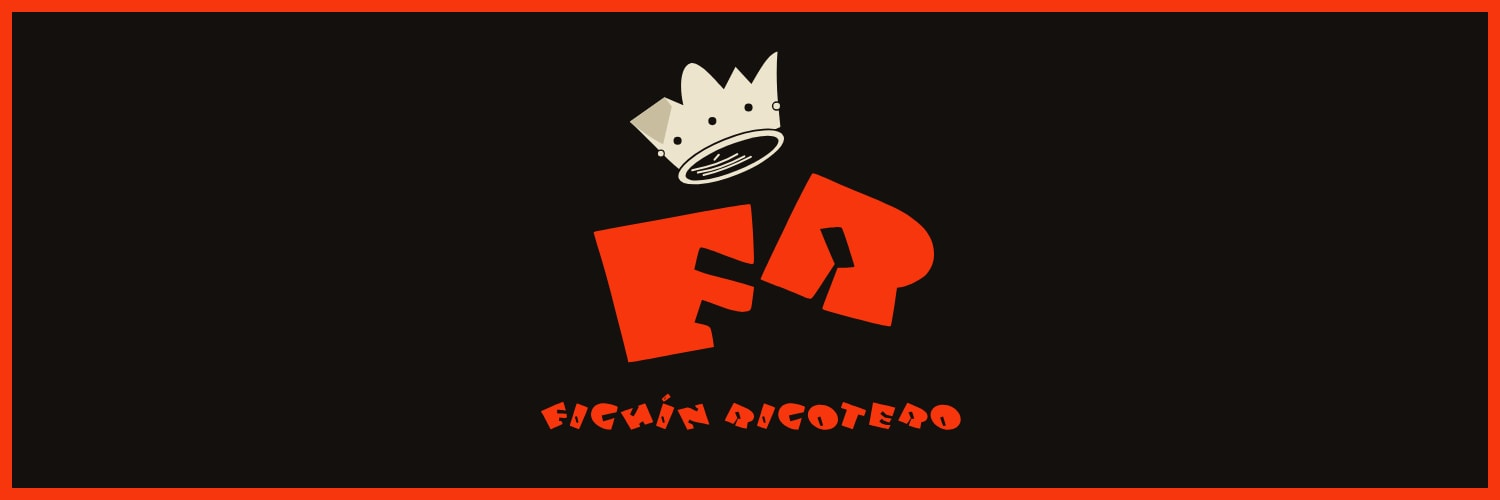
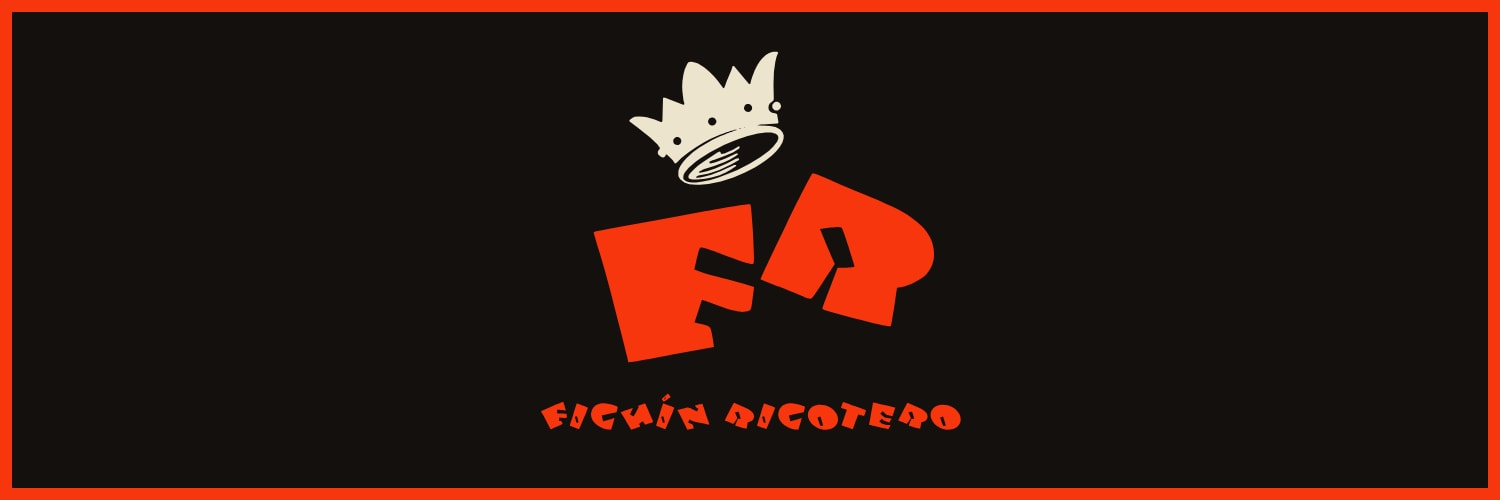
La corona es la misma del PR original, vectorizada de la referencia
generar-logo.py saca los contornos del blanco de FOTO.png (RES-42) con
contourpy y los simplifica; lo negro queda calado. La dibujada a mano se veía
cortada. El perfil y el banner de X se reimprimen con la marca nueva.

Changed region(s): [[0.3987, 0.09, 0.5213, 0.39]]

diff --git a/scripts/generar-logo.py b/scripts/generar-logo.py
@@ -11,28 +11,38 @@ Escribe en `public/marca/`:
   · fr-tinta.svg          — la marca a una tinta (`--fondo`), para apoyar sobre el papel
   · fr-papel.svg          — la marca a una tinta (`--papel`), para apoyar sobre una tapa o un color
 
-**Es un homenaje al PR coronado, no una copia.** La composición sigue el logo de la banda —la
-letra grande que baja a la izquierda, la R más chica y más alta a la derecha, apenas
-tocándose, y la corona torcida arriba con sus joyas y su ala vista desde abajo—, calcada sobre
-la referencia que trae la fuente (`RES-42`, `Docs/INVESTIGACION/Tipografia/Patricio-Rey-Regular.zip`).
-Pero la F reemplaza a la P y la corona está dibujada acá, trazo por trazo; la banda no firma
-nada del sitio.
+**Es un homenaje al PR coronado.** La composición es la del logo de la banda —la letra grande
+que baja a la izquierda, la R más chica y más alta a la derecha, apenas tocándose, y la corona
+torcida arriba—, con la F en el lugar de la P. La referencia es la imagen que trae la fuente
+(`RES-42`, `FOTO.png` en `Docs/INVESTIGACION/Tipografia/Patricio-Rey-Regular.zip`).
+
+**La corona es la misma del original**: se vectoriza de esa imagen cada vez que corre esto
+(contornos del blanco, con lo negro calado), así que las joyas, el filete y el adentro del ala
+dejan ver el fondo. El usuario la pidió así: *"que sea la misma corona"*. Una corona dibujada a
+mano, la primera versión, se veía cortada.
 
 **Las letras salen de la fuente**: son los glifos de `public/fuentes/patricio-rey.woff` pasados
 a trazo, girados y escalados hasta calzar en el lugar de la P y la R del original. **Los
 colores salen de `tokens.css`**, como en `generar-marca-social.mjs`.
 
-Las coordenadas son las de la referencia (2000 × 1600): así se puede volver a calcar encima.
+Las coordenadas son las de la referencia a 2000 × 1600 (dos tercios de la imagen): así se
+puede volver a calcar encima. Necesita `fonttools`, `numpy`, `pillow` y `contourpy`.
 """
+import io
 import re
+import zipfile
 from pathlib import Path
 
+import numpy as np
+from contourpy import FillType, contour_generator
 from fontTools.pens.svgPathPen import SVGPathPen
 from fontTools.ttLib import TTFont
+from PIL import Image, ImageFilter
 
 RAIZ = Path(__file__).resolve().parent.parent
 TOKENS = (RAIZ / 'src/styles/tokens.css').read_text(encoding='utf-8')
 SALIDA = RAIZ / 'public/marca'
+REFERENCIA = RAIZ / 'Docs/INVESTIGACION/Tipografia/Patricio-Rey-Regular.zip'
 
 
 def token(nombre: str) -> str:
@@ -45,7 +55,6 @@ def token(nombre: str) -> str:
 ROJO = token('--marca-rojo')
 TINTA = token('--fondo')
 PAPEL = token('--papel')
-CANTO = token('--papel-borde')
 
 fuente = TTFont(RAIZ / 'public/fuentes/patricio-rey.woff')
 glifos = fuente.getGlyphSet()
@@ -58,6 +67,73 @@ def glifo(letra: str) -> tuple[str, float]:
     glifos[nombre].draw(trazo)
     return trazo.getCommands(), glifos[nombre].width
 
+
+# ---------------------------------------------------------------- la corona
+
+# La caja de la corona en la imagen original (3000 × 2400), y cuánto se suaviza el borde.
+CAJA_CORONA = (870, 150, 1700, 880)
+UMBRAL = 110
+TOLERANCIA = 0.9  # en píxeles de la imagen: lo que se le permite a la simplificación
+
+
+def simplificar(puntos: np.ndarray, tolerancia: float) -> np.ndarray:
+    """Douglas-Peucker: saca los puntos que no cambian la forma más que la tolerancia."""
+    if len(puntos) < 4:
+        return puntos
+    guardar = np.zeros(len(puntos), dtype=bool)
+    guardar[0] = guardar[-1] = True
+    pila = [(0, len(puntos) - 1)]
+    while pila:
+        i, j = pila.pop()
+        a, b = puntos[i], puntos[j]
+        tramo = puntos[i + 1:j]
+        if not len(tramo):
+            continue
+        ab = b - a
+        largo = np.hypot(*ab) or 1.0
+        dist = np.abs(ab[0] * (tramo[:, 1] - a[1]) - ab[1] * (tramo[:, 0] - a[0])) / largo
+        k = int(np.argmax(dist))
+        if dist[k] > tolerancia:
+            guardar[i + 1 + k] = True
+            pila += [(i, i + 1 + k), (i + 1 + k, j)]
+    return puntos[guardar]
+
+
+def trazar_corona() -> str:
+    """Los contornos del blanco de la corona del original, en coordenadas de la referencia."""
+    with zipfile.ZipFile(REFERENCIA) as z:
+        imagen = Image.open(io.BytesIO(z.read('FOTO.png'))).convert('L')
+    x0, y0, x1, y1 = CAJA_CORONA
+    gris = np.asarray(imagen.crop(CAJA_CORONA).filter(ImageFilter.GaussianBlur(1.2)), dtype=float)
+    polis, codigos = contour_generator(z=gris, fill_type=FillType.OuterCode).filled(UMBRAL, 256)
+    trazo = []
+    for pts, cods in zip(polis, codigos):
+        # Cada polígono trae su borde de afuera y sus agujeros: se parte en anillos.
+        inicios = list(np.flatnonzero(cods == 1)) + [len(pts)]
+        for i, j in zip(inicios, inicios[1:]):
+            # El anillo cierra repitiendo el primer punto: se parte en el punto más lejano y se
+            # simplifica cada mitad, que si no Douglas-Peucker ve un tramo de largo cero.
+            anillo = pts[i:j - 1] if np.allclose(pts[i], pts[j - 1]) else pts[i:j]
+            if len(anillo) < 3:
+                continue
+            k = int(np.argmax(np.hypot(*(anillo - anillo[0]).T)))
+            anillo = np.vstack([simplificar(anillo[:k + 1], TOLERANCIA)[:-1],
+                                simplificar(np.vstack([anillo[k:], anillo[:1]]), TOLERANCIA)[:-1]])
+            if len(anillo) < 3:
+                continue
+            xy = [f'{(x + x0) / 1.5:.1f},{(y + y0) / 1.5:.1f}' for x, y in anillo]
+            trazo.append('M' + 'L'.join(xy) + 'Z')
+    return ''.join(trazo)
+
+
+CORONA = trazar_corona()
+
+
+def corona(tinta: str) -> str:
+    return f'<path fill="{tinta}" fill-rule="evenodd" d="{CORONA}"/>'
+
+
+# ---------------------------------------------------------------- las letras
 
 # Dónde cae cada letra: centro en la referencia, escala y giro. El centro del glifo es el de
 # su caja en la fuente (y para arriba). Calcado sobre la P y la R del PR coronado.
@@ -73,23 +149,6 @@ def letra(c: str, tinta: str) -> str:
     (cx, cy), s, giro, (gx, gy) = l['centro'], l['escala'], l['giro'], l['glifo']
     return (f'<g transform="translate({cx},{cy}) rotate({giro}) scale({s},{-s}) translate({-gx},{-gy})">'
             f'<path d="{d}" fill="{tinta}"/></g>')
-
-
-def corona(cuerpo: str, cara: str, detalle: str) -> str:
-    """La corona torcida, vista un poco desde abajo: cuatro puntas de llama, tres joyas, dos
-    perlas y el ala ovalada con el adentro oscuro y sus rayas."""
-    return f'''<g transform="translate(590,100)">
-<path fill="{cuerpo}" d="M5,252 L125,168 L190,195 C175,130 180,60 215,50 C250,45 300,110 330,140 L370,62 L425,122 C450,80 480,20 515,10 C510,70 512,140 518,200 L525,270 L180,420 C120,370 60,300 5,252 Z"/>
-<path fill="{cara}" d="M5,252 L125,168 L150,200 L120,330 C80,310 40,280 5,252 Z"/>
-<ellipse cx="355" cy="375" rx="198" ry="66" transform="rotate(-22 355 375)" fill="{cuerpo}" stroke="{detalle}" stroke-width="6"/>
-<ellipse cx="358" cy="378" rx="172" ry="46" transform="rotate(-22 358 378)" fill="{detalle}"/>
-<g fill="none" stroke="{cuerpo}" stroke-width="7" stroke-linecap="round" transform="rotate(-22 358 378)">
-<path d="M230,380 C280,392 340,394 400,388"/><path d="M215,365 C270,376 330,380 380,372"/><path d="M245,395 C300,404 350,404 420,398"/><path d="M300,360 L320,350"/>
-</g>
-<circle cx="170" cy="318" r="14" fill="{detalle}"/><circle cx="290" cy="250" r="14" fill="{detalle}"/><circle cx="415" cy="203" r="14" fill="{detalle}"/>
-<circle cx="512" cy="198" r="14" fill="{cuerpo}" stroke="{detalle}" stroke-width="5"/>
-<circle cx="112" cy="362" r="12" fill="{cuerpo}" stroke="{detalle}" stroke-width="4"/>
-</g>'''
 
 
 def nombre(tinta: str) -> str:
@@ -108,8 +167,8 @@ def nombre(tinta: str) -> str:
             + ''.join(partes) + '</g>')
 
 
-def marca(letras: str, cuerpo: str, cara: str, detalle: str) -> str:
-    return corona(cuerpo, cara, detalle) + letra('F', letras) + letra('R', letras)
+def marca(letras: str, cabeza: str) -> str:
+    return corona(cabeza) + letra('F', letras) + letra('R', letras)
 
 
 def svg(caja: tuple[int, int, int, int], cuerpo: str) -> str:
@@ -124,13 +183,13 @@ COMPLETO = (240, 70, 1540, 1450)
 
 def main() -> None:
     SALIDA.mkdir(parents=True, exist_ok=True)
-    color = marca(ROJO, PAPEL, CANTO, TINTA)
+    # A color: las letras en el rojo de Oktubre y la corona en el papel, que es el blanco de la marca.
+    color = marca(ROJO, PAPEL)
     salidas = {
         'fr.svg': svg(ISOTIPO, color),
         'fichin-ricotero.svg': svg(COMPLETO, color + nombre(ROJO)),
-        # A una tinta: los detalles de la corona se recortan con la tinta de donde va a apoyar.
-        'fr-tinta.svg': svg(ISOTIPO, marca(TINTA, TINTA, TINTA, PAPEL)),
-        'fr-papel.svg': svg(ISOTIPO, marca(PAPEL, PAPEL, PAPEL, TINTA)),
+        'fr-tinta.svg': svg(ISOTIPO, marca(TINTA, TINTA)),
+        'fr-papel.svg': svg(ISOTIPO, marca(PAPEL, PAPEL)),
         # El disco de tinta, como el del original: la marca entra entera en el círculo.
         'fr-redondo.svg': svg((300, -50, 1400, 1400),
                               f'<circle cx="1000" cy="650" r="700" fill="{TINTA}"/>'
@@ -138,7 +197,7 @@ def main() -> None:
     }
     for archivo, texto in salidas.items():
         (SALIDA / archivo).write_text(texto, encoding='utf-8')
-        print(f'  public/marca/{archivo}')
+        print(f'  public/marca/{archivo}  {len(texto.encode()) // 1024} KB')
 
 
 if __name__ == '__main__':
